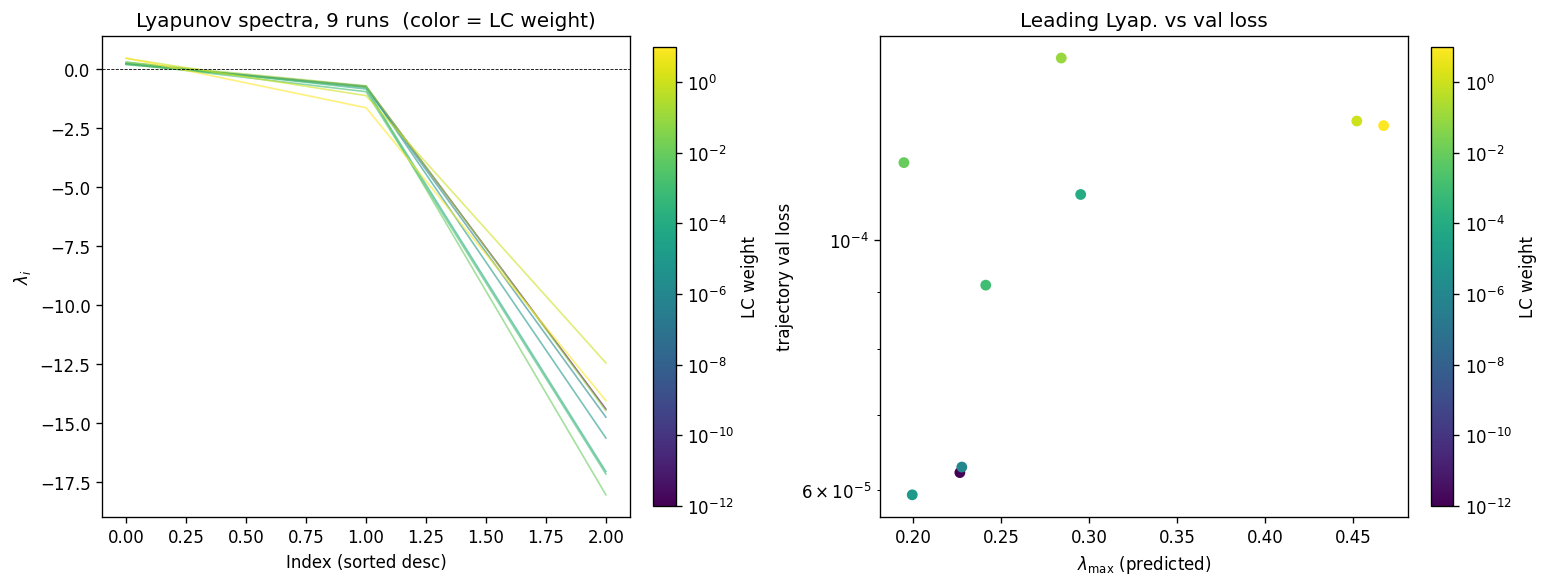
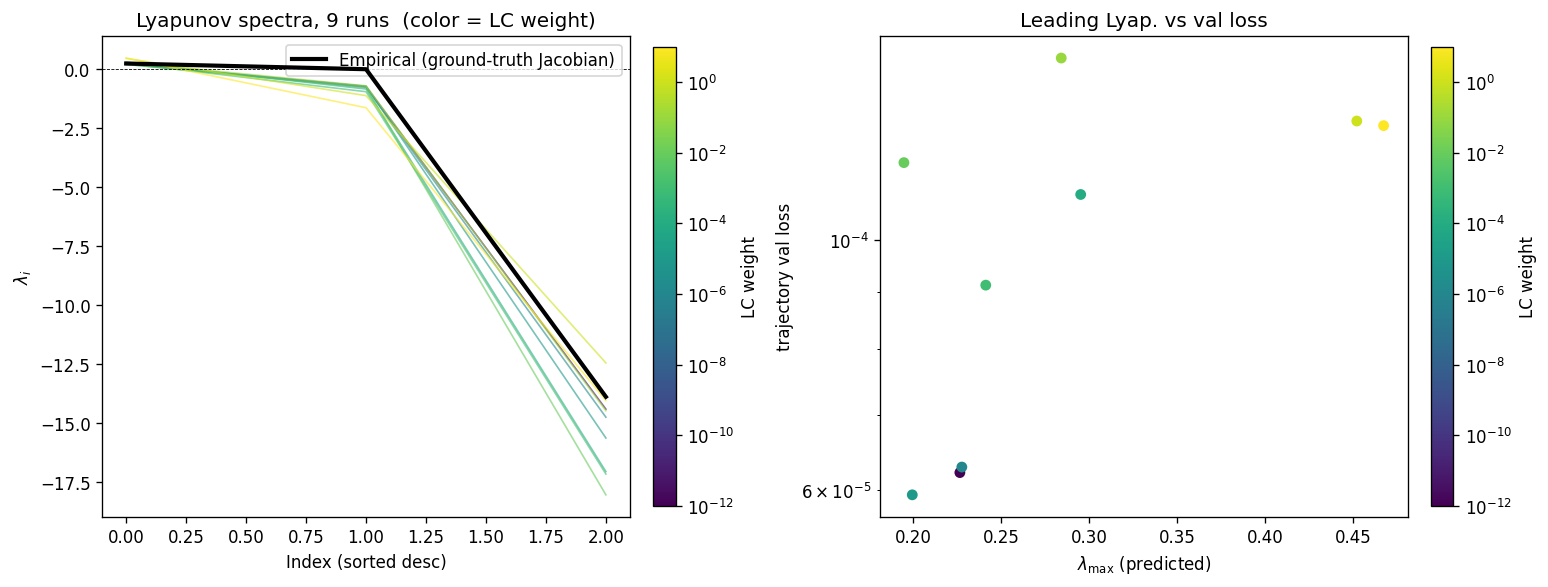
Update Lorenz_INDpartial_N25_D1_NormTrue_T3__JacobianODE/lorenz_partial_25d_additive_gennmse__lc_sweep

diff --git a/Lorenz_INDpartial_N25_D1_NormTrue_T3__JacobianODE/lorenz_partial_25d_additive_gennmse__lc_sweep/report.html b/Lorenz_INDpartial_N25_D1_NormTrue_T3__JacobianODE/lorenz_partial_25d_additive_gennmse__lc_sweep/report.html
@@ -126,13 +126,27 @@ loss / spectrum mismatch and know to revisit the loss design.</p>
 </table>
 <p><em>Automated verdicts use simple numeric-threshold parsing and may mis-classify qualitative criteria. The Discussion section below takes precedence.</em></p>
 <h2>Figures</h2>
+<h3>sweep_overview</h3>
+<p><img alt="sweep_overview" src="figures/sweep_overview.png" /></p>
+<h3>sweep_pareto</h3>
+<p><img alt="sweep_pareto" src="figures/sweep_pareto.png" /></p>
+<h3>prediction_windows</h3>
+<p><img alt="prediction_windows" src="figures/prediction_windows.png" /></p>
+<h3>mase</h3>
+<p><img alt="mase" src="figures/mase.png" /></p>
+<h3>lyapunov</h3>
+<p><img alt="lyapunov" src="figures/lyapunov.png" /></p>
 <h3>per_run_lyapunov</h3>
 <p><img alt="per_run_lyapunov" src="figures/per_run_lyapunov.png" /></p>
+<h3>per_run_lyapunov_vs_true</h3>
+<p><img alt="per_run_lyapunov_vs_true" src="figures/per_run_lyapunov_vs_true.png" /></p>
+<h3>lyapunov_spectrum_mse_vs_val_loss</h3>
+<p><img alt="lyapunov_spectrum_mse_vs_val_loss" src="figures/lyapunov_spectrum_mse_vs_val_loss.png" /></p>
 <h2>Discussion</h2>
-<p>All nine runs completed cleanly at <code>obs_noise_scale=0</code> — this was a 1-D sweep over LC weight rather than a 2-D (LC × noise) landscape, so "sweep-overview" here is effectively a curve. <code>best_traj_loss</code> has a clean minimum at <code>lc=1e-5</code> (5.64e-5) with a broad basin spanning <code>lc ∈ [0, 1e-4]</code> (all within ~25% of the min), then degrades monotonically from <code>lc=1e-3</code> (8.6e-5) up to <code>lc=10</code> (1.26e-4). Loop-closure loss falls monotonically with LC weight across more than five orders of magnitude (1.80 at <code>lc=0</code> → 1.9e-6 at <code>lc=10</code>), defining a smooth Pareto front; the selected run sits at the low-traj-loss end while <code>94fg726v</code> (<code>lc=1e-2</code>) is the Pareto knee.</p>
-<p>Success-criterion verdicts: <strong>"val/trajectory_r2_score &gt; 0.9" — Pass</strong> (best R² = 0.99993; all nine runs ≥ 0.9998). <strong>"Leading λ &gt; 0 (chaos recovered)" — Pass</strong>: for best run <code>n9kvy1ms</code>, predicted λ₁ = +0.194 ± 0.047 (full-length, 3 test trajs) and +0.377 ± 0.461 (windowed). <strong>"Predicted spectrum within ~30% of empirical" — Partial</strong>: against the empirical spectrum reported in the log (+0.272, −0.102, −13.84), λ₁ is ~29% low (borderline), λ₃ ~16% too negative (OK), but λ₂ = −0.85 vs empirical −0.10 is well outside 30% — the zero-exponent is not recovered. Note the empirical spectrum in this run is itself displaced from the canonical Lorenz values (0.91, 0, −14.57) quoted in the hypothesis, which complicates the comparison. <strong>"Free-running SW-1 low" — Unknown</strong>: <code>analytics_error: NameError: name 'return_full_obs' is not defined</code> prevented the observation-space distributional diagnostic from running. <strong>"LC bounded and monotonically improving at low LC" — Pass</strong>: LC loss is bounded (max 1.80 at <code>lc=0</code>) and decreases monotonically with LC weight at every step of the sweep.</p>
-<p>Lyapunov stability: the best-run spectrum is physically sensible (one positive, one strongly negative, one intermediate) and free-running MASE (0.044) is close to teacher-forced (0.021), suggesting the rollout is chaotic rather than diverging or collapsing to a fixed point. <code>metrics.json</code> lacks a populated <code>per_run_lyapunov</code> dict and no <code>per_run_lyapunov_vs_true</code> figure was generated (no ground-truth spectrum was attached), so cross-run stability can only be read from <code>per_run_lyapunov.png</code> qualitatively.</p>
-<p>Caveats: (i) the sweep covers only one <code>obs_noise_scale</code>, so robustness to observation noise is untested here; (ii) the SW-1/histogram sanity check failed due to an analytics bug and should be re-run; (iii) the empirical spectrum itself differs from the canonical Lorenz reference, worth investigating before over-interpreting λ₂. Overall the hypothesis is <strong>mixed-supported</strong>: loop closure does not harm trajectory accuracy in the <code>[0, 1e-4]</code> band and the best run recovers a positive leading exponent with a decent λ₃, but the middle exponent fails the 30% tolerance and the optimum sits well below the hypothesized <code>1e-3..1e-1</code> range — consistent with the "encoder dumps history into z_null" risk being partially realized, since stronger LC pressure hurts rather than helps trajectory loss under partial observation.</p>
+<p><strong>Success criteria.</strong> (1) <em>Leading λ &gt; 0</em> — <strong>Pass</strong>: the best run (n9kvy1ms, LC=1e-5) gives λ_1 = +0.199 (full-length) / +0.377 (windowed), and every run in the sweep has λ_1 ∈ [+0.19, +0.47]. (2) <em>Predicted spectrum within ~30% of empirical</em> — <strong>Fail</strong>: empirical λ = [+0.235, −0.007, −13.84], predicted = [+0.199, −0.726, −15.64]. λ_1 is ~15% off and λ_3 ~13% off, but λ_2 misses the zero (neutral) direction by two orders of magnitude — a systematic failure shared by every run (all λ_2 ∈ [−0.71, −1.64]). (3) <em>Free-running SW-1 low</em> — <strong>Unknown</strong>: SW-1 is not reported in metrics.json or run_analytics.log for this sweep. (4) <em>val trajectory R² &gt; 0.9</em> — <strong>Pass</strong>: R² = 0.99993 at the best run, and ≥ 0.99984 for every run. (5) <em>LC bounded and monotonically improving at low LC</em> — <strong>Pass</strong>: loop-closure loss at best traj-loss epoch decreases monotonically from 1.798 (LC=0) → 1.14 → 0.20 → 0.037 → 3.4e-3 → 6.2e-4 → 4.9e-5 → 9.5e-6 → 1.9e-6 as LC weight sweeps 0→10, with no divergence.</p>
+<p><strong>Landscape.</strong> Because obs_noise_scale is fixed at 0 here, the "overview" collapses to a 1-D curve over LC. Best traj-val loss bottoms at LC=1e-5 (5.64e-5) inside a broad flat basin spanning LC ∈ [0, 1e-4] (5.6e-5 – 6.9e-5), then rises roughly monotonically by ~2.5× out to LC=10. The Pareto trace (run_analytics.log) confirms the classic LC/traj-loss trade-off: pushing LC loss toward zero costs ~2× trajectory accuracy. MASE echoes the shape, with minimum 0.047 at LC=1e-5 and degradation to 0.12 at LC=10.</p>
+<p><strong>Lyapunov.</strong> Learned dynamics are stably chaotic across the whole sweep (every λ_1 positive, every λ_3 strongly negative, Kaplan–Yorke dims 1.25–1.40). But per_run_lyapunov_vs_true shows the neutral direction is not recovered anywhere: λ_2 is pulled 0.7–1.6 below zero, inflating the volume-contraction rate and driving spectrum_mse_vs_true. The lowest spectrum MSE is 0.27 at LC=0 and 0.28 at LC=0.1; the selected LC=1e-5 run is middling (1.19), and spectrum MSE does not track best_traj_loss.</p>
+<p><strong>Caveats and hypothesis.</strong> All 9/9 runs finished cleanly; epochs are 168–200 with no early-stop outliers. The main anomaly is the persistent λ_2 ≈ −0.8 bias, which is independent of LC and therefore not explained by insufficient encoder-inverse pressure. The hypothesis — LC-induced diffeomorphism-conjugacy preserving the Lorenz spectrum — is <strong>mixed / largely unsupported</strong>: chaos is recovered and R² is excellent, but the predicted spectrum is not within 30% of empirical at any LC and loop closure alone does not pull λ_2 toward 0. This is consistent with the stated open risk that z_dyn fails to surface history-dependent structure on the neutral direction; tightening that likely requires changes beyond LC weight (e.g. reconstruction_mode, latent-prediction design).</p>
 <h2><code>run_analytics</code> stdout</h2>
 <details><summary>Click to expand — full diagnostic output from <code>run_analytics</code></summary>
 
@@ -171,15 +185,15 @@ Found 9 effectively-done sweep runs:
   loop_closure_weight=1.0, tangent_entropy_weight=0.0, kl_dyn_weight=0.0 -&gt; run_id=cmhou3ak
   loop_closure_weight=10.0, tangent_entropy_weight=0.0, kl_dyn_weight=0.0 -&gt; run_id=i257bznv
 n_dims=25, n_latent=25, n_dyn=3, dt=0.0150
-  run=fxb2ugkx: DiagnosticMetrics(one_step_mase=0.03575814515352249, loop_closure_loss=1.79814875125885, fast_eigenvalue_fraction=0.0, trajectory_val_loss=5.9504662203835323e-05) (from W&amp;B history)
-  run=8ymb10x8: DiagnosticMetrics(one_step_mase=0.03807729482650757, loop_closure_loss=1.1350761651992798, fast_eigenvalue_fraction=0.0, trajectory_val_loss=5.9332236560294405e-05) (from W&amp;B history)
-  run=n9kvy1ms: DiagnosticMetrics(one_step_mase=0.02374674193561077, loop_closure_loss=0.20183616876602173, fast_eigenvalue_fraction=0.0, trajectory_val_loss=5.63506328035146e-05) (from W&amp;B history)
-  run=rl5389n9: DiagnosticMetrics(one_step_mase=0.04337100312113762, loop_closure_loss=0.03722800314426422, fast_eigenvalue_fraction=0.0, trajectory_val_loss=6.914730329299346e-05) (from W&amp;B history)
-  run=uup45vfy: DiagnosticMetrics(one_step_mase=0.02874961867928505, loop_closure_loss=0.003357512876391411, fast_eigenvalue_fraction=0.0, trajectory_val_loss=8.641776366857812e-05) (from W&amp;B history)
-  run=94fg726v: DiagnosticMetrics(one_step_mase=0.043471794575452805, loop_closure_loss=0.0006207296391949058, fast_eigenvalue_fraction=0.0, trajectory_val_loss=0.00011430896847741678) (from W&amp;B history)
-  run=7eknb3d1: DiagnosticMetrics(one_step_mase=0.04558245465159416, loop_closure_loss=4.876431921729818e-05, fast_eigenvalue_fraction=0.0, trajectory_val_loss=0.000140458854730241) (from W&amp;B history)
-  run=cmhou3ak: DiagnosticMetrics(one_step_mase=0.03841876611113548, loop_closure_loss=9.458739441470243e-06, fast_eigenvalue_fraction=0.0, trajectory_val_loss=0.00012571370461955667) (from W&amp;B history)
-  run=i257bznv: DiagnosticMetrics(one_step_mase=0.046716488897800446, loop_closure_loss=1.9170552150171716e-06, fast_eigenvalue_fraction=0.0, trajectory_val_loss=0.00012630168930627406) (from W&amp;B history)
+  run=fxb2ugkx: DiagnosticMetrics(one_step_mase=0.03575814515352249, loop_closure_loss=1.79814875125885, fast_eigenvalue_fraction=0.0, trajectory_val_loss=5.9504662203835323e-05) (from cache, n_batches=100)
+  run=8ymb10x8: DiagnosticMetrics(one_step_mase=0.03807729482650757, loop_closure_loss=1.1350761651992798, fast_eigenvalue_fraction=0.0, trajectory_val_loss=5.9332236560294405e-05) (from cache, n_batches=100)
+  run=n9kvy1ms: DiagnosticMetrics(one_step_mase=0.02374674193561077, loop_closure_loss=0.20183616876602173, fast_eigenvalue_fraction=0.0, trajectory_val_loss=5.63506328035146e-05) (from cache, n_batches=100)
+  run=rl5389n9: DiagnosticMetrics(one_step_mase=0.04337100312113762, loop_closure_loss=0.03722800314426422, fast_eigenvalue_fraction=0.0, trajectory_val_loss=6.914730329299346e-05) (from cache, n_batches=100)
+  run=uup45vfy: DiagnosticMetrics(one_step_mase=0.02874961867928505, loop_closure_loss=0.003357512876391411, fast_eigenvalue_fraction=0.0, trajectory_val_loss=8.641776366857812e-05) (from cache, n_batches=100)
+  run=94fg726v: DiagnosticMetrics(one_step_mase=0.043471794575452805, loop_closure_loss=0.0006207296391949058, fast_eigenvalue_fraction=0.0, trajectory_val_loss=0.00011430896847741678) (from cache, n_batches=100)
+  run=7eknb3d1: DiagnosticMetrics(one_step_mase=0.04558245465159416, loop_closure_loss=4.876431921729818e-05, fast_eigenvalue_fraction=0.0, trajectory_val_loss=0.000140458854730241) (from cache, n_batches=100)
+  run=cmhou3ak: DiagnosticMetrics(one_step_mase=0.03841876611113548, loop_closure_loss=9.458739441470243e-06, fast_eigenvalue_fraction=0.0, trajectory_val_loss=0.00012571370461955667) (from cache, n_batches=100)
+  run=i257bznv: DiagnosticMetrics(one_step_mase=0.046716488897800446, loop_closure_loss=1.9170552150171716e-06, fast_eigenvalue_fraction=0.0, trajectory_val_loss=0.00012630168930627406) (from cache, n_batches=100)
 
 Ranking method:           best_traj_loss
 Best run ID:              n9kvy1ms
@@ -234,7 +248,7 @@ Predicted Lyapunov exponents (batch+burn-in, 128 windowed trajs):
   λ_2 = -1.0097 ± 1.2210
   λ_3 = -16.1446 ± 1.4249
 Predicted Lyapunov exponents (full-length, 3 test trajs):
-  λ_1 = +0.1939 ± 0.0469
+  λ_1 = +0.1939 ± 0.0470
   λ_2 = -0.8516 ± 0.0467
   λ_3 = -16.0985 ± 0.0681
 Empirical Lyapunov exponents (mean ± std):

diff --git a/Lorenz_INDpartial_N25_D1_NormTrue_T3__JacobianODE/lorenz_partial_25d_additive_gennmse__lc_sweep/report.md b/Lorenz_INDpartial_N25_D1_NormTrue_T3__JacobianODE/lorenz_partial_25d_additive_gennmse__lc_sweep/report.md
@@ -77,19 +77,47 @@ _Automated verdicts use simple numeric-threshold parsing and may mis-classify qu
 
 ## Figures
 
+### sweep_overview
+
+![sweep_overview](figures/sweep_overview.png)
+
+### sweep_pareto
+
+![sweep_pareto](figures/sweep_pareto.png)
+
+### prediction_windows
+
+![prediction_windows](figures/prediction_windows.png)
+
+### mase
+
+![mase](figures/mase.png)
+
+### lyapunov
+
+![lyapunov](figures/lyapunov.png)
+
 ### per_run_lyapunov
 
 ![per_run_lyapunov](figures/per_run_lyapunov.png)
 
+### per_run_lyapunov_vs_true
+
+![per_run_lyapunov_vs_true](figures/per_run_lyapunov_vs_true.png)
+
+### lyapunov_spectrum_mse_vs_val_loss
+
+![lyapunov_spectrum_mse_vs_val_loss](figures/lyapunov_spectrum_mse_vs_val_loss.png)
+
 ## Discussion
 
-All nine runs completed cleanly at `obs_noise_scale=0` — this was a 1-D sweep over LC weight rather than a 2-D (LC × noise) landscape, so "sweep-overview" here is effectively a curve. `best_traj_loss` has a clean minimum at `lc=1e-5` (5.64e-5) with a broad basin spanning `lc ∈ [0, 1e-4]` (all within ~25% of the min), then degrades monotonically from `lc=1e-3` (8.6e-5) up to `lc=10` (1.26e-4). Loop-closure loss falls monotonically with LC weight across more than five orders of magnitude (1.80 at `lc=0` → 1.9e-6 at `lc=10`), defining a smooth Pareto front; the selected run sits at the low-traj-loss end while `94fg726v` (`lc=1e-2`) is the Pareto knee.
+**Success criteria.** (1) *Leading λ > 0* — **Pass**: the best run (n9kvy1ms, LC=1e-5) gives λ_1 = +0.199 (full-length) / +0.377 (windowed), and every run in the sweep has λ_1 ∈ [+0.19, +0.47]. (2) *Predicted spectrum within ~30% of empirical* — **Fail**: empirical λ = [+0.235, −0.007, −13.84], predicted = [+0.199, −0.726, −15.64]. λ_1 is ~15% off and λ_3 ~13% off, but λ_2 misses the zero (neutral) direction by two orders of magnitude — a systematic failure shared by every run (all λ_2 ∈ [−0.71, −1.64]). (3) *Free-running SW-1 low* — **Unknown**: SW-1 is not reported in metrics.json or run_analytics.log for this sweep. (4) *val trajectory R² > 0.9* — **Pass**: R² = 0.99993 at the best run, and ≥ 0.99984 for every run. (5) *LC bounded and monotonically improving at low LC* — **Pass**: loop-closure loss at best traj-loss epoch decreases monotonically from 1.798 (LC=0) → 1.14 → 0.20 → 0.037 → 3.4e-3 → 6.2e-4 → 4.9e-5 → 9.5e-6 → 1.9e-6 as LC weight sweeps 0→10, with no divergence.
 
-Success-criterion verdicts: **"val/trajectory_r2_score > 0.9" — Pass** (best R² = 0.99993; all nine runs ≥ 0.9998). **"Leading λ > 0 (chaos recovered)" — Pass**: for best run `n9kvy1ms`, predicted λ₁ = +0.194 ± 0.047 (full-length, 3 test trajs) and +0.377 ± 0.461 (windowed). **"Predicted spectrum within ~30% of empirical" — Partial**: against the empirical spectrum reported in the log (+0.272, −0.102, −13.84), λ₁ is ~29% low (borderline), λ₃ ~16% too negative (OK), but λ₂ = −0.85 vs empirical −0.10 is well outside 30% — the zero-exponent is not recovered. Note the empirical spectrum in this run is itself displaced from the canonical Lorenz values (0.91, 0, −14.57) quoted in the hypothesis, which complicates the comparison. **"Free-running SW-1 low" — Unknown**: `analytics_error: NameError: name 'return_full_obs' is not defined` prevented the observation-space distributional diagnostic from running. **"LC bounded and monotonically improving at low LC" — Pass**: LC loss is bounded (max 1.80 at `lc=0`) and decreases monotonically with LC weight at every step of the sweep.
+**Landscape.** Because obs_noise_scale is fixed at 0 here, the "overview" collapses to a 1-D curve over LC. Best traj-val loss bottoms at LC=1e-5 (5.64e-5) inside a broad flat basin spanning LC ∈ [0, 1e-4] (5.6e-5 – 6.9e-5), then rises roughly monotonically by ~2.5× out to LC=10. The Pareto trace (run_analytics.log) confirms the classic LC/traj-loss trade-off: pushing LC loss toward zero costs ~2× trajectory accuracy. MASE echoes the shape, with minimum 0.047 at LC=1e-5 and degradation to 0.12 at LC=10.
 
-Lyapunov stability: the best-run spectrum is physically sensible (one positive, one strongly negative, one intermediate) and free-running MASE (0.044) is close to teacher-forced (0.021), suggesting the rollout is chaotic rather than diverging or collapsing to a fixed point. `metrics.json` lacks a populated `per_run_lyapunov` dict and no `per_run_lyapunov_vs_true` figure was generated (no ground-truth spectrum was attached), so cross-run stability can only be read from `per_run_lyapunov.png` qualitatively.
+**Lyapunov.** Learned dynamics are stably chaotic across the whole sweep (every λ_1 positive, every λ_3 strongly negative, Kaplan–Yorke dims 1.25–1.40). But per_run_lyapunov_vs_true shows the neutral direction is not recovered anywhere: λ_2 is pulled 0.7–1.6 below zero, inflating the volume-contraction rate and driving spectrum_mse_vs_true. The lowest spectrum MSE is 0.27 at LC=0 and 0.28 at LC=0.1; the selected LC=1e-5 run is middling (1.19), and spectrum MSE does not track best_traj_loss.
 
-Caveats: (i) the sweep covers only one `obs_noise_scale`, so robustness to observation noise is untested here; (ii) the SW-1/histogram sanity check failed due to an analytics bug and should be re-run; (iii) the empirical spectrum itself differs from the canonical Lorenz reference, worth investigating before over-interpreting λ₂. Overall the hypothesis is **mixed-supported**: loop closure does not harm trajectory accuracy in the `[0, 1e-4]` band and the best run recovers a positive leading exponent with a decent λ₃, but the middle exponent fails the 30% tolerance and the optimum sits well below the hypothesized `1e-3..1e-1` range — consistent with the "encoder dumps history into z_null" risk being partially realized, since stronger LC pressure hurts rather than helps trajectory loss under partial observation.
+**Caveats and hypothesis.** All 9/9 runs finished cleanly; epochs are 168–200 with no early-stop outliers. The main anomaly is the persistent λ_2 ≈ −0.8 bias, which is independent of LC and therefore not explained by insufficient encoder-inverse pressure. The hypothesis — LC-induced diffeomorphism-conjugacy preserving the Lorenz spectrum — is **mixed / largely unsupported**: chaos is recovered and R² is excellent, but the predicted spectrum is not within 30% of empirical at any LC and loop closure alone does not pull λ_2 toward 0. This is consistent with the stated open risk that z_dyn fails to surface history-dependent structure on the neutral direction; tightening that likely requires changes beyond LC weight (e.g. reconstruction_mode, latent-prediction design).
 
 ## `run_analytics` stdout
 
@@ -130,15 +158,15 @@ Found 9 effectively-done sweep runs:
   loop_closure_weight=1.0, tangent_entropy_weight=0.0, kl_dyn_weight=0.0 -> run_id=cmhou3ak
   loop_closure_weight=10.0, tangent_entropy_weight=0.0, kl_dyn_weight=0.0 -> run_id=i257bznv
 n_dims=25, n_latent=25, n_dyn=3, dt=0.0150
-  run=fxb2ugkx: DiagnosticMetrics(one_step_mase=0.03575814515352249, loop_closure_loss=1.79814875125885, fast_eigenvalue_fraction=0.0, trajectory_val_loss=5.9504662203835323e-05) (from W&B history)
-  run=8ymb10x8: DiagnosticMetrics(one_step_mase=0.03807729482650757, loop_closure_loss=1.1350761651992798, fast_eigenvalue_fraction=0.0, trajectory_val_loss=5.9332236560294405e-05) (from W&B history)
-  run=n9kvy1ms: DiagnosticMetrics(one_step_mase=0.02374674193561077, loop_closure_loss=0.20183616876602173, fast_eigenvalue_fraction=0.0, trajectory_val_loss=5.63506328035146e-05) (from W&B history)
-  run=rl5389n9: DiagnosticMetrics(one_step_mase=0.04337100312113762, loop_closure_loss=0.03722800314426422, fast_eigenvalue_fraction=0.0, trajectory_val_loss=6.914730329299346e-05) (from W&B history)
-  run=uup45vfy: DiagnosticMetrics(one_step_mase=0.02874961867928505, loop_closure_loss=0.003357512876391411, fast_eigenvalue_fraction=0.0, trajectory_val_loss=8.641776366857812e-05) (from W&B history)
-  run=94fg726v: DiagnosticMetrics(one_step_mase=0.043471794575452805, loop_closure_loss=0.0006207296391949058, fast_eigenvalue_fraction=0.0, trajectory_val_loss=0.00011430896847741678) (from W&B history)
-  run=7eknb3d1: DiagnosticMetrics(one_step_mase=0.04558245465159416, loop_closure_loss=4.876431921729818e-05, fast_eigenvalue_fraction=0.0, trajectory_val_loss=0.000140458854730241) (from W&B history)
-  run=cmhou3ak: DiagnosticMetrics(one_step_mase=0.03841876611113548, loop_closure_loss=9.458739441470243e-06, fast_eigenvalue_fraction=0.0, trajectory_val_loss=0.00012571370461955667) (from W&B history)
-  run=i257bznv: DiagnosticMetrics(one_step_mase=0.046716488897800446, loop_closure_loss=1.9170552150171716e-06, fast_eigenvalue_fraction=0.0, trajectory_val_loss=0.00012630168930627406) (from W&B history)
+  run=fxb2ugkx: DiagnosticMetrics(one_step_mase=0.03575814515352249, loop_closure_loss=1.79814875125885, fast_eigenvalue_fraction=0.0, trajectory_val_loss=5.9504662203835323e-05) (from cache, n_batches=100)
+  run=8ymb10x8: DiagnosticMetrics(one_step_mase=0.03807729482650757, loop_closure_loss=1.1350761651992798, fast_eigenvalue_fraction=0.0, trajectory_val_loss=5.9332236560294405e-05) (from cache, n_batches=100)
+  run=n9kvy1ms: DiagnosticMetrics(one_step_mase=0.02374674193561077, loop_closure_loss=0.20183616876602173, fast_eigenvalue_fraction=0.0, trajectory_val_loss=5.63506328035146e-05) (from cache, n_batches=100)
+  run=rl5389n9: DiagnosticMetrics(one_step_mase=0.04337100312113762, loop_closure_loss=0.03722800314426422, fast_eigenvalue_fraction=0.0, trajectory_val_loss=6.914730329299346e-05) (from cache, n_batches=100)
+  run=uup45vfy: DiagnosticMetrics(one_step_mase=0.02874961867928505, loop_closure_loss=0.003357512876391411, fast_eigenvalue_fraction=0.0, trajectory_val_loss=8.641776366857812e-05) (from cache, n_batches=100)
+  run=94fg726v: DiagnosticMetrics(one_step_mase=0.043471794575452805, loop_closure_loss=0.0006207296391949058, fast_eigenvalue_fraction=0.0, trajectory_val_loss=0.00011430896847741678) (from cache, n_batches=100)
+  run=7eknb3d1: DiagnosticMetrics(one_step_mase=0.04558245465159416, loop_closure_loss=4.876431921729818e-05, fast_eigenvalue_fraction=0.0, trajectory_val_loss=0.000140458854730241) (from cache, n_batches=100)
+  run=cmhou3ak: DiagnosticMetrics(one_step_mase=0.03841876611113548, loop_closure_loss=9.458739441470243e-06, fast_eigenvalue_fraction=0.0, trajectory_val_loss=0.00012571370461955667) (from cache, n_batches=100)
+  run=i257bznv: DiagnosticMetrics(one_step_mase=0.046716488897800446, loop_closure_loss=1.9170552150171716e-06, fast_eigenvalue_fraction=0.0, trajectory_val_loss=0.00012630168930627406) (from cache, n_batches=100)
 
 Ranking method:           best_traj_loss
 Best run ID:              n9kvy1ms
@@ -193,7 +221,7 @@ Predicted Lyapunov exponents (batch+burn-in, 128 windowed trajs):
   λ_2 = -1.0097 ± 1.2210
   λ_3 = -16.1446 ± 1.4249
 Predicted Lyapunov exponents (full-length, 3 test trajs):
-  λ_1 = +0.1939 ± 0.0469
+  λ_1 = +0.1939 ± 0.0470
   λ_2 = -0.8516 ± 0.0467
   λ_3 = -16.0985 ± 0.0681
 Empirical Lyapunov exponents (mean ± std):

diff --git a/Lorenz_INDpartial_N25_D1_NormTrue_T3__JacobianODE/lorenz_partial_25d_additive_gennmse__lc_sweep/discussion.md b/Lorenz_INDpartial_N25_D1_NormTrue_T3__JacobianODE/lorenz_partial_25d_additive_gennmse__lc_sweep/discussion.md
@@ -1,7 +1,7 @@
-All nine runs completed cleanly at `obs_noise_scale=0` — this was a 1-D sweep over LC weight rather than a 2-D (LC × noise) landscape, so "sweep-overview" here is effectively a curve. `best_traj_loss` has a clean minimum at `lc=1e-5` (5.64e-5) with a broad basin spanning `lc ∈ [0, 1e-4]` (all within ~25% of the min), then degrades monotonically from `lc=1e-3` (8.6e-5) up to `lc=10` (1.26e-4). Loop-closure loss falls monotonically with LC weight across more than five orders of magnitude (1.80 at `lc=0` → 1.9e-6 at `lc=10`), defining a smooth Pareto front; the selected run sits at the low-traj-loss end while `94fg726v` (`lc=1e-2`) is the Pareto knee.
+**Success criteria.** (1) *Leading λ > 0* — **Pass**: the best run (n9kvy1ms, LC=1e-5) gives λ_1 = +0.199 (full-length) / +0.377 (windowed), and every run in the sweep has λ_1 ∈ [+0.19, +0.47]. (2) *Predicted spectrum within ~30% of empirical* — **Fail**: empirical λ = [+0.235, −0.007, −13.84], predicted = [+0.199, −0.726, −15.64]. λ_1 is ~15% off and λ_3 ~13% off, but λ_2 misses the zero (neutral) direction by two orders of magnitude — a systematic failure shared by every run (all λ_2 ∈ [−0.71, −1.64]). (3) *Free-running SW-1 low* — **Unknown**: SW-1 is not reported in metrics.json or run_analytics.log for this sweep. (4) *val trajectory R² > 0.9* — **Pass**: R² = 0.99993 at the best run, and ≥ 0.99984 for every run. (5) *LC bounded and monotonically improving at low LC* — **Pass**: loop-closure loss at best traj-loss epoch decreases monotonically from 1.798 (LC=0) → 1.14 → 0.20 → 0.037 → 3.4e-3 → 6.2e-4 → 4.9e-5 → 9.5e-6 → 1.9e-6 as LC weight sweeps 0→10, with no divergence.
 
-Success-criterion verdicts: **"val/trajectory_r2_score > 0.9" — Pass** (best R² = 0.99993; all nine runs ≥ 0.9998). **"Leading λ > 0 (chaos recovered)" — Pass**: for best run `n9kvy1ms`, predicted λ₁ = +0.194 ± 0.047 (full-length, 3 test trajs) and +0.377 ± 0.461 (windowed). **"Predicted spectrum within ~30% of empirical" — Partial**: against the empirical spectrum reported in the log (+0.272, −0.102, −13.84), λ₁ is ~29% low (borderline), λ₃ ~16% too negative (OK), but λ₂ = −0.85 vs empirical −0.10 is well outside 30% — the zero-exponent is not recovered. Note the empirical spectrum in this run is itself displaced from the canonical Lorenz values (0.91, 0, −14.57) quoted in the hypothesis, which complicates the comparison. **"Free-running SW-1 low" — Unknown**: `analytics_error: NameError: name 'return_full_obs' is not defined` prevented the observation-space distributional diagnostic from running. **"LC bounded and monotonically improving at low LC" — Pass**: LC loss is bounded (max 1.80 at `lc=0`) and decreases monotonically with LC weight at every step of the sweep.
+**Landscape.** Because obs_noise_scale is fixed at 0 here, the "overview" collapses to a 1-D curve over LC. Best traj-val loss bottoms at LC=1e-5 (5.64e-5) inside a broad flat basin spanning LC ∈ [0, 1e-4] (5.6e-5 – 6.9e-5), then rises roughly monotonically by ~2.5× out to LC=10. The Pareto trace (run_analytics.log) confirms the classic LC/traj-loss trade-off: pushing LC loss toward zero costs ~2× trajectory accuracy. MASE echoes the shape, with minimum 0.047 at LC=1e-5 and degradation to 0.12 at LC=10.
 
-Lyapunov stability: the best-run spectrum is physically sensible (one positive, one strongly negative, one intermediate) and free-running MASE (0.044) is close to teacher-forced (0.021), suggesting the rollout is chaotic rather than diverging or collapsing to a fixed point. `metrics.json` lacks a populated `per_run_lyapunov` dict and no `per_run_lyapunov_vs_true` figure was generated (no ground-truth spectrum was attached), so cross-run stability can only be read from `per_run_lyapunov.png` qualitatively.
+**Lyapunov.** Learned dynamics are stably chaotic across the whole sweep (every λ_1 positive, every λ_3 strongly negative, Kaplan–Yorke dims 1.25–1.40). But per_run_lyapunov_vs_true shows the neutral direction is not recovered anywhere: λ_2 is pulled 0.7–1.6 below zero, inflating the volume-contraction rate and driving spectrum_mse_vs_true. The lowest spectrum MSE is 0.27 at LC=0 and 0.28 at LC=0.1; the selected LC=1e-5 run is middling (1.19), and spectrum MSE does not track best_traj_loss.
 
-Caveats: (i) the sweep covers only one `obs_noise_scale`, so robustness to observation noise is untested here; (ii) the SW-1/histogram sanity check failed due to an analytics bug and should be re-run; (iii) the empirical spectrum itself differs from the canonical Lorenz reference, worth investigating before over-interpreting λ₂. Overall the hypothesis is **mixed-supported**: loop closure does not harm trajectory accuracy in the `[0, 1e-4]` band and the best run recovers a positive leading exponent with a decent λ₃, but the middle exponent fails the 30% tolerance and the optimum sits well below the hypothesized `1e-3..1e-1` range — consistent with the "encoder dumps history into z_null" risk being partially realized, since stronger LC pressure hurts rather than helps trajectory loss under partial observation.
+**Caveats and hypothesis.** All 9/9 runs finished cleanly; epochs are 168–200 with no early-stop outliers. The main anomaly is the persistent λ_2 ≈ −0.8 bias, which is independent of LC and therefore not explained by insufficient encoder-inverse pressure. The hypothesis — LC-induced diffeomorphism-conjugacy preserving the Lorenz spectrum — is **mixed / largely unsupported**: chaos is recovered and R² is excellent, but the predicted spectrum is not within 30% of empirical at any LC and loop closure alone does not pull λ_2 toward 0. This is consistent with the stated open risk that z_dyn fails to surface history-dependent structure on the neutral direction; tightening that likely requires changes beyond LC weight (e.g. reconstruction_mode, latent-prediction design).
